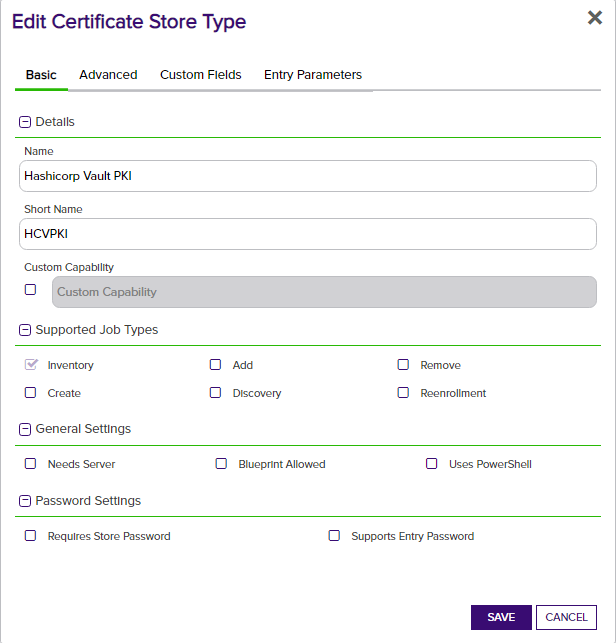
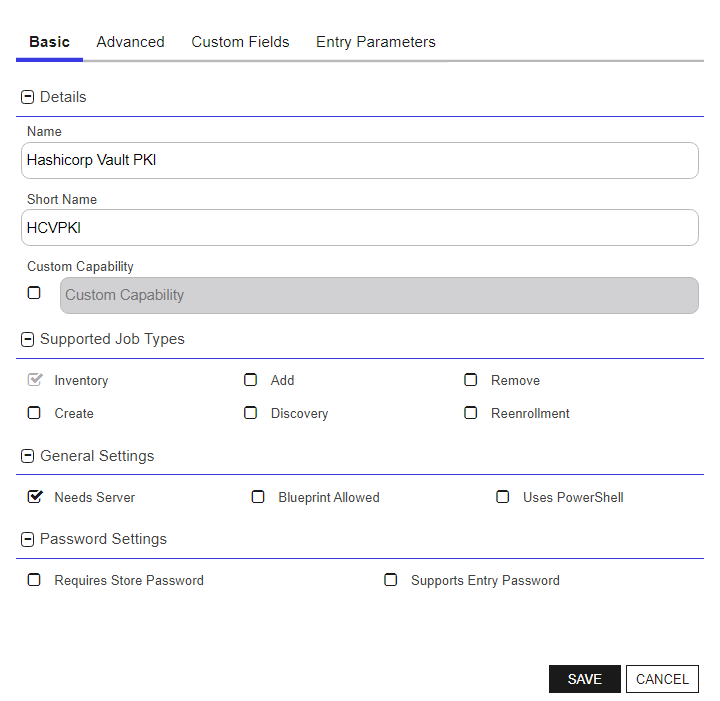
fixed bug that was stripping slashes from mountpoint.  Updated store type definition for HCVPKI

diff --git a/hashicorp-vault-orchestrator/Jobs/JobBase.cs b/hashicorp-vault-orchestrator/Jobs/JobBase.cs
@@ -20,21 +20,13 @@ namespace Keyfactor.Extensions.Orchestrator.HashicorpVault.Jobs
         public string ExtensionName => "HCV";
 
         public string StorePath { get; set; }
-
         public string VaultToken { get; set; }
-
         public string ClientMachine { get; set; }
-
         public string VaultServerUrl { get; set; }
-
         public bool SubfolderInventory { get; set; }
-
         public bool IncludeCertChain { get; set; }
-
         public string MountPoint { get; set; } // the mount point of the KV secrets engine.  defaults to kv-v2 if not provided.
-
-        public string Namespace { get; set; } // for enterprise editions of vault that utilize namespaces; split from the passed in mount point. "namespace/mountpoint"
-
+        public string Namespace { get; set; } // for enterprise editions of vault that utilize namespaces; split from the passed in mount point if needed. 
         internal protected IHashiClient VaultClient { get; set; }
         internal protected string _storeType { get; set; }
         internal protected ILogger logger { get; set; }
@@ -103,7 +95,6 @@ namespace Keyfactor.Extensions.Orchestrator.HashicorpVault.Jobs
 
             logger.LogTrace($"Directories to search (mount point): {MountPoint}");
             logger.LogTrace($"Enterprise Namespace: {Namespace}");
-
             logger.LogTrace($"Directories to ignore (subpath to search): {subPath}");
             InitProps(config.JobProperties, config.Capability);
         }
@@ -112,11 +103,8 @@ namespace Keyfactor.Extensions.Orchestrator.HashicorpVault.Jobs
             logger = LogHandler.GetClassLogger(GetType());
 
             ClientMachine = config.CertificateStoreDetails.ClientMachine;
-
             VaultServerUrl = PAMUtilities.ResolvePAMField(PamSecretResolver, logger, "Server UserName", config.ServerUsername);
-
             VaultToken = PAMUtilities.ResolvePAMField(PamSecretResolver, logger, "Server Password", config.ServerPassword);
-
             StorePath = config.CertificateStoreDetails.StorePath;
             ClientMachine = config.CertificateStoreDetails.ClientMachine;
             dynamic props = JsonConvert.DeserializeObject(config.CertificateStoreDetails.Properties.ToString());
@@ -141,8 +129,8 @@ namespace Keyfactor.Extensions.Orchestrator.HashicorpVault.Jobs
             }
 
             var mp = props.ContainsKey("MountPoint") ? props["MountPoint"].ToString() : null;
-
             MountPoint = !string.IsNullOrEmpty(mp) ? mp : MountPoint;
+
             SubfolderInventory = props.ContainsKey("SubfolderInventory") ? bool.Parse(props["SubfolderInventory"].ToString()) : false;
             IncludeCertChain = props.ContainsKey("IncludeCertChain") ? bool.Parse(props["IncludeCertChain"].ToString()) : false;
 
@@ -156,7 +144,6 @@ namespace Keyfactor.Extensions.Orchestrator.HashicorpVault.Jobs
             {
                 VaultClient = new HcvKeyfactorClient(VaultToken, VaultServerUrl, MountPoint, StorePath);
             }
-
         }
     }
 }

diff --git a/hashicorp-vault-orchestrator/HcvKeyfactorClient.cs b/hashicorp-vault-orchestrator/HcvKeyfactorClient.cs
@@ -21,8 +21,6 @@ namespace Keyfactor.Extensions.Orchestrator.HashicorpVault
 {
     public class HcvKeyfactorClient : IHashiClient
     {
-        //private IVaultClient _vaultClient { get; set; }
-
         private ILogger logger = LogHandler.GetClassLogger<HcvKeyfactorClient>();
 
         private string _vaultUrl { get; set; }
@@ -36,9 +34,11 @@ namespace Keyfactor.Extensions.Orchestrator.HashicorpVault
         public HcvKeyfactorClient(string vaultToken, string serverUrl, string mountPoint, string storePath)
         {
             _vaultToken = vaultToken;
-            _mountPoint = mountPoint ?? "keyfactor";
+            _mountPoint = mountPoint ?? "keyfactor"; // the mount point, including the namespace.. the namespace cannot contain slashes; so it will be everything before the first slash
+            // example: KF/pki/pru uses the KF namespace and the mount point is pki/pru.
+
             _storePath = !string.IsNullOrEmpty(storePath) ? "/" + storePath : storePath;
-            _vaultUrl = $"{ serverUrl }/v1/{ _mountPoint.Replace("/", string.Empty) }";
+            _vaultUrl = $"{ serverUrl }/v1/{ _mountPoint.Replace("//", "/") }";
         }
 
         public async Task<CurrentInventoryItem> GetCertificateFromPemStore(string key)
@@ -124,7 +124,6 @@ namespace Keyfactor.Extensions.Orchestrator.HashicorpVault
 
                 var content = JsonConvert.DeserializeObject<ListResponse>(new StreamReader(res.GetResponseStream()).ReadToEnd());
                 string[] certKeys;
-
 
                 content.data.TryGetValue("keys", out certKeys);
 

diff --git a/readme_source.md b/readme_source.md
@@ -6,7 +6,7 @@ This integration for the Keyfactor Universal Orchestrator has been tested agains
 
 This integration supports 3 Hashicorp Secrets Engines; PKI, Key-Value store, and the Keyfactor Hashicorp Plugin (Keyfactor Secrets Engine).
 
-### The Key-Value secrets engine
+## The Key-Value secrets engine
 
 For the Key-Value secrets engine, we have 4 store types that can be used.  
 
@@ -17,11 +17,11 @@ For the Key-Value secrets engine, we have 4 store types that can be used.
 
 The following operations are supported by this integration for all of the Key-Value secrets engine types:
 
-1. Discovery - Discovery all file repositories for the type
-1. Inventory - Inventory all certificates in the path
-1. Management (Add) - Add a certificate to a defined certificate store.
-1. Management (Remove) - Remove a certificate from a defined certificate store.
-1. Create - Create a new, empty certificate store at the path defined in Store Path.
+1. **Discovery** - Discovery all file repositories for the type
+1. **Inventory** - Inventory all certificates in the path
+1. **Management (Add)** - Add a certificate to a defined certificate store.
+1. **Management (Remove)** - Remove a certificate from a defined certificate store.
+1. **Create** - Create a new, empty certificate store at the path defined in Store Path.
 
 Excluding *HCVKVPEM*, the discovery process requires that:
 1. The entry for the certificate contain the base64 encoded certificate file.
@@ -72,30 +72,16 @@ One way to encode a binary certificate store is to use the following command in 
 
 `c:\> cat <cert store file path> | base64`
 
-### The Hashicorp PKI and Keyfactor Plugin secrets engines
+## The Hashicorp PKI and Keyfactor Plugin secrets engines
 
 Both the Hashicorp PKI and Keyfactor Secrets Engine plugins are designed to allow managing certifications directly on the Hashicorp Vault instance.
 The store type for the PKI and/or the Keyfactor secrets engine is the same; `HCVPKI`.
 This integration supports the following in order to view your certificates from the platform:
 
-1. Inventory - Return all certificates stored in a path.
+1. **Inventory** - Return all certificates stored in a path.
 
 [View the repository on Github](https://github.com/Keyfactor/hashicorp-vault-secretsengine) for more information about the Hashicorp Vault Keyfactor Secrets Engine plugin.
 
-## Versioning
-
-The version number of a the Hashicorp Vault Orchestrator Extension can be verified by right clicking on the `Keyfactor.Extensions.Orchestrator.HCV.dll` file in the extensions installation folder, selecting Properties, and then clicking on the Details tab.
-
-## Keyfactor Version Supported
-
-This integration was built on the .NET Core 3.1 target framework and are compatible for use with the Keyfactor Universal Orchestrator and the latest version of the Keyfactor platform.
-
-## Security Considerations
-
-1. It is not necessary to use the Vault root token when creating a Certificate Store for HashicorpVault.  We recommend creating a token with policies that reflect the minimum path and permissions necessary to perform the intended operations.
-1. The capabilities required to perform all operations on a cert store within vault are `["read", "list", "create", "update", "patch", "delete"]`
-1. These capabilities should apply to the parent folder on file stores.
-1. The token will also need `"list"` capability on the `<mount point>/metadata` path to perform basic operations.
 
 ## Extension Configuration
 
@@ -165,9 +151,9 @@ In Keyfactor Command create a new Certificate Store that resembles the one below
   - If your organization utilizes Vault enterprise namespaces, you should include the namespace here.
 - **Subfolder Inventory** - Set to 'True' if all of the certificates . The default, 'False' will inventory secrets stored at the root of the "Store Path", but will not look at secrets in subfolders. **Note** that there is a limit on the number of certificates that can be in a certificate store. In certain environments enabling Subfolder Inventory may exceed this limit and cause inventory job failure. Inventory job results are currently submitted to the Command platform as a single HTTP POST. There is not a specific limit on the number of certificates in a store, rather the limit is based on the size of the actual certificates and the HTTP POST size limit configured on the Command web server.
 
-#### Set the server name and password
+#### Set the server username and password
 
-- The server name should be the full URL to the instance of Vault that will be accessible by the orchestrator. (example: `http://127.0.0.1:8200`)
+- The server username should be the full URL to the instance of Vault that will be accessible by the orchestrator. (example: `http://127.0.0.1:8200`)
 - The server password should be the Vault token that will be used for authenticating.
 
 ### For the Keyfactor and PKI plugins
@@ -182,6 +168,7 @@ In Keyfactor Command create a new Certificate Store that resembles the one below
 - **Name:** "Hashicorp Vault PKI" (or another preferred name)
 - **Short Name:** "HCVPKI"
 - **Supported Job Types:** "Inventory"
+- **Needs Server** - should be checked (true).
 
 ![](images/store_type_pki.PNG)
 
@@ -191,12 +178,10 @@ In Keyfactor Command create a new Certificate Store that resembles the one below
 
 ![](images/cert-store-type-advanced.png)
 
-- Click the "Custom Fields" tab to add the following custom fields:
+- Click the "Custom Fields" tab to add the following field:
   - **MountPoint** - type: *string*
-  - **VaultServerUrl** - type: *string*, *required*
-  - **VaultToken** - type: *secret*, *required*
-
-![](images/store_type_fields.png)
+  
+![](images/store_type_fields_pki.png)
 
 - Click **Save** to save the new Store Type.
 
@@ -209,14 +194,16 @@ In Keyfactor Command create a new Certificate Store similar to the one below:
 
 ![](images/store_type_pki.png)
 
-- **Client Machine** - Enter the URL for the Vault host machine
+- **Client Machine** - Enter an identifier for the client machine.  This could be the Orchestrator host name, or anything else useful.  This value is not used by the extension.
 - **Store Path** - "/"  
 - **Mount Point** - This is the mount point name for the instance of the PKI or Keyfactor secrets engine plugin.
-  - If using the PKI plugin, the default in Hashicorp is pki.  If using the Keyfactor plugin, it should correspond to the mount point given when the plugin was enabled.
+  - If using the PKI plugin, the default in Hashicorp is "pki".  If using the Keyfactor plugin, the default is "keyfactor".
   - It is possible to have multiple instances of the Keyfactor plugin running simultaneously, so be sure this corresponds to the one you would like to manage.
 
-- **Vault Token** - This is the access token that will be used by the orchestrator for requests to Vault.
-- **Vault Server Url** - the full url and port of the Vault server instance
+#### Set the server username and password (values hidden)
+
+- The **SERVER USERNAME** should be the full URL to the instance of Vault that will be accessible by the orchestrator. (example: `http://127.0.0.1:8200`)
+- The **SERVER PASSWORD** should be the Vault token that will be used for authenticating.
 
 At this point, the certificate store should be created and ready to peform inventory on your certificates stored via the Keyfactor or PKI secrets engine plugin for Hashicorp Vault.
 
@@ -261,5 +248,20 @@ At this point you should be able to enroll a certificate and store it in Vault u
 ![](images/vault_cli_read.png)
 
 ## Notes / Future Enhancements
+
+### Versioning
+
+The version number of a the Hashicorp Vault Orchestrator Extension can be verified by right clicking on the `Keyfactor.Extensions.Orchestrator.HCV.dll` file in the extensions installation folder, selecting Properties, and then clicking on the Details tab.
+
+### Keyfactor Version Supported
+
+This integration was built on the .NET Core 3.1 target framework and are compatible for use with the Keyfactor Universal Orchestrator and the latest version of the Keyfactor platform.
+
+## Security Considerations
+
+1. It is not necessary to use the Vault root token when creating a Certificate Store for HashicorpVault.  We recommend creating a token with policies that reflect the minimum path and permissions necessary to perform the intended operations.
+1. The capabilities required to perform all operations on a cert store within vault are `["read", "list", "create", "update", "patch", "delete"]`
+1. These capabilities should apply to the parent folder on file stores.
+1. The token will also need `"list"` capability on the `<mount point>/metadata` path to perform basic operations.
 
 - For the Key-Value stores we operate on a single version of the Key Value secret (no versioning capabilities through the Orchesterator Extension / Keyfactor).

diff --git a/CHANGELOG.md b/CHANGELOG.md
@@ -1,3 +1,6 @@
+## 3.1.1
+* bug fix: no longer stripping slashes from a mountpoint that includes them
+
 ## 3.1.0
 
 * Added support for enterprise namespaces and alternate mount-points during discovery by allowing the value to be entered in the "directories to search" field.
